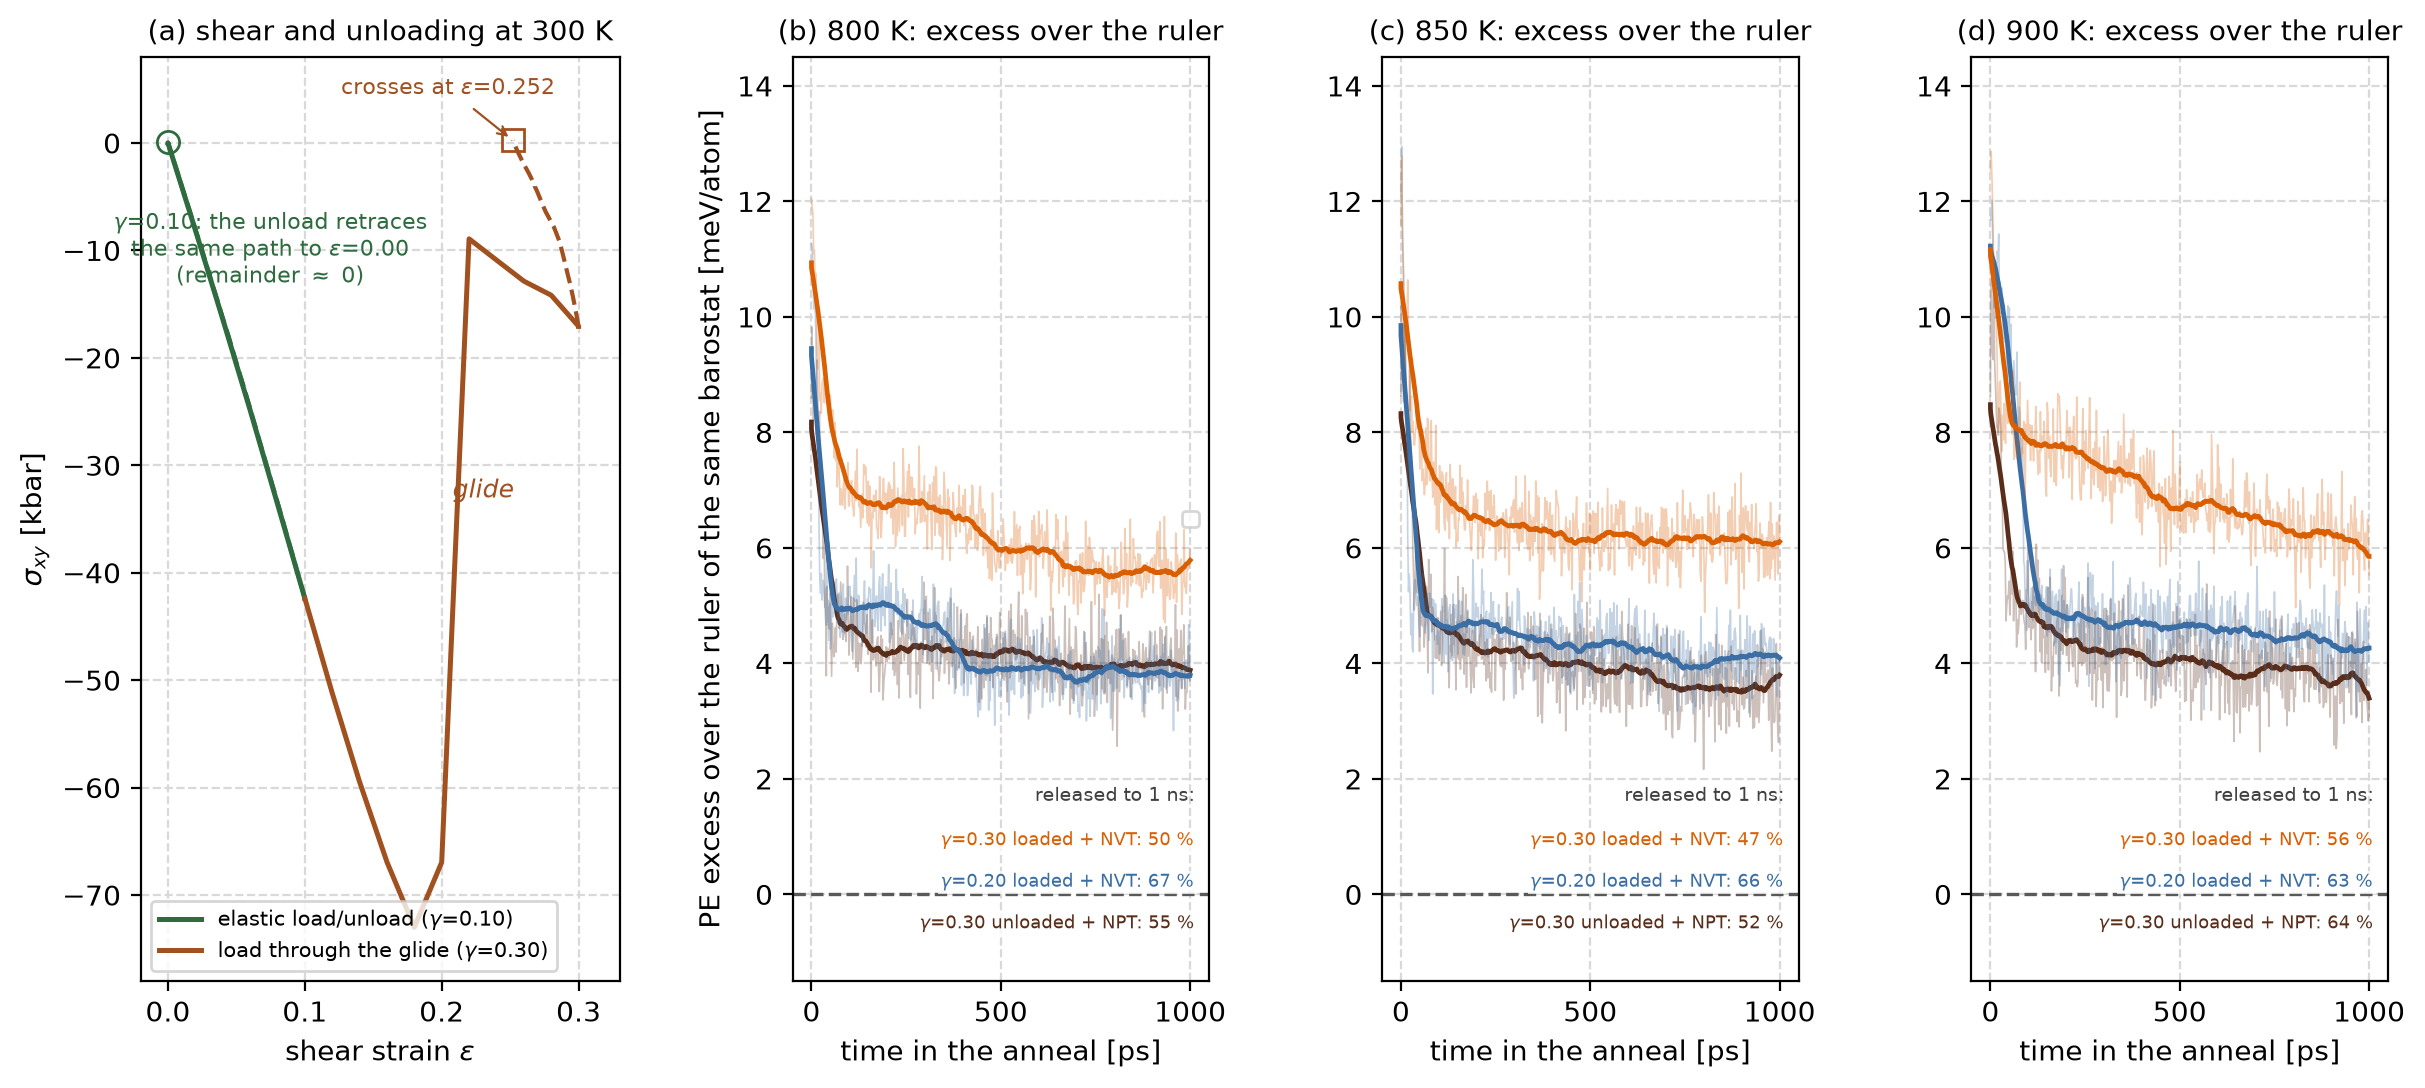
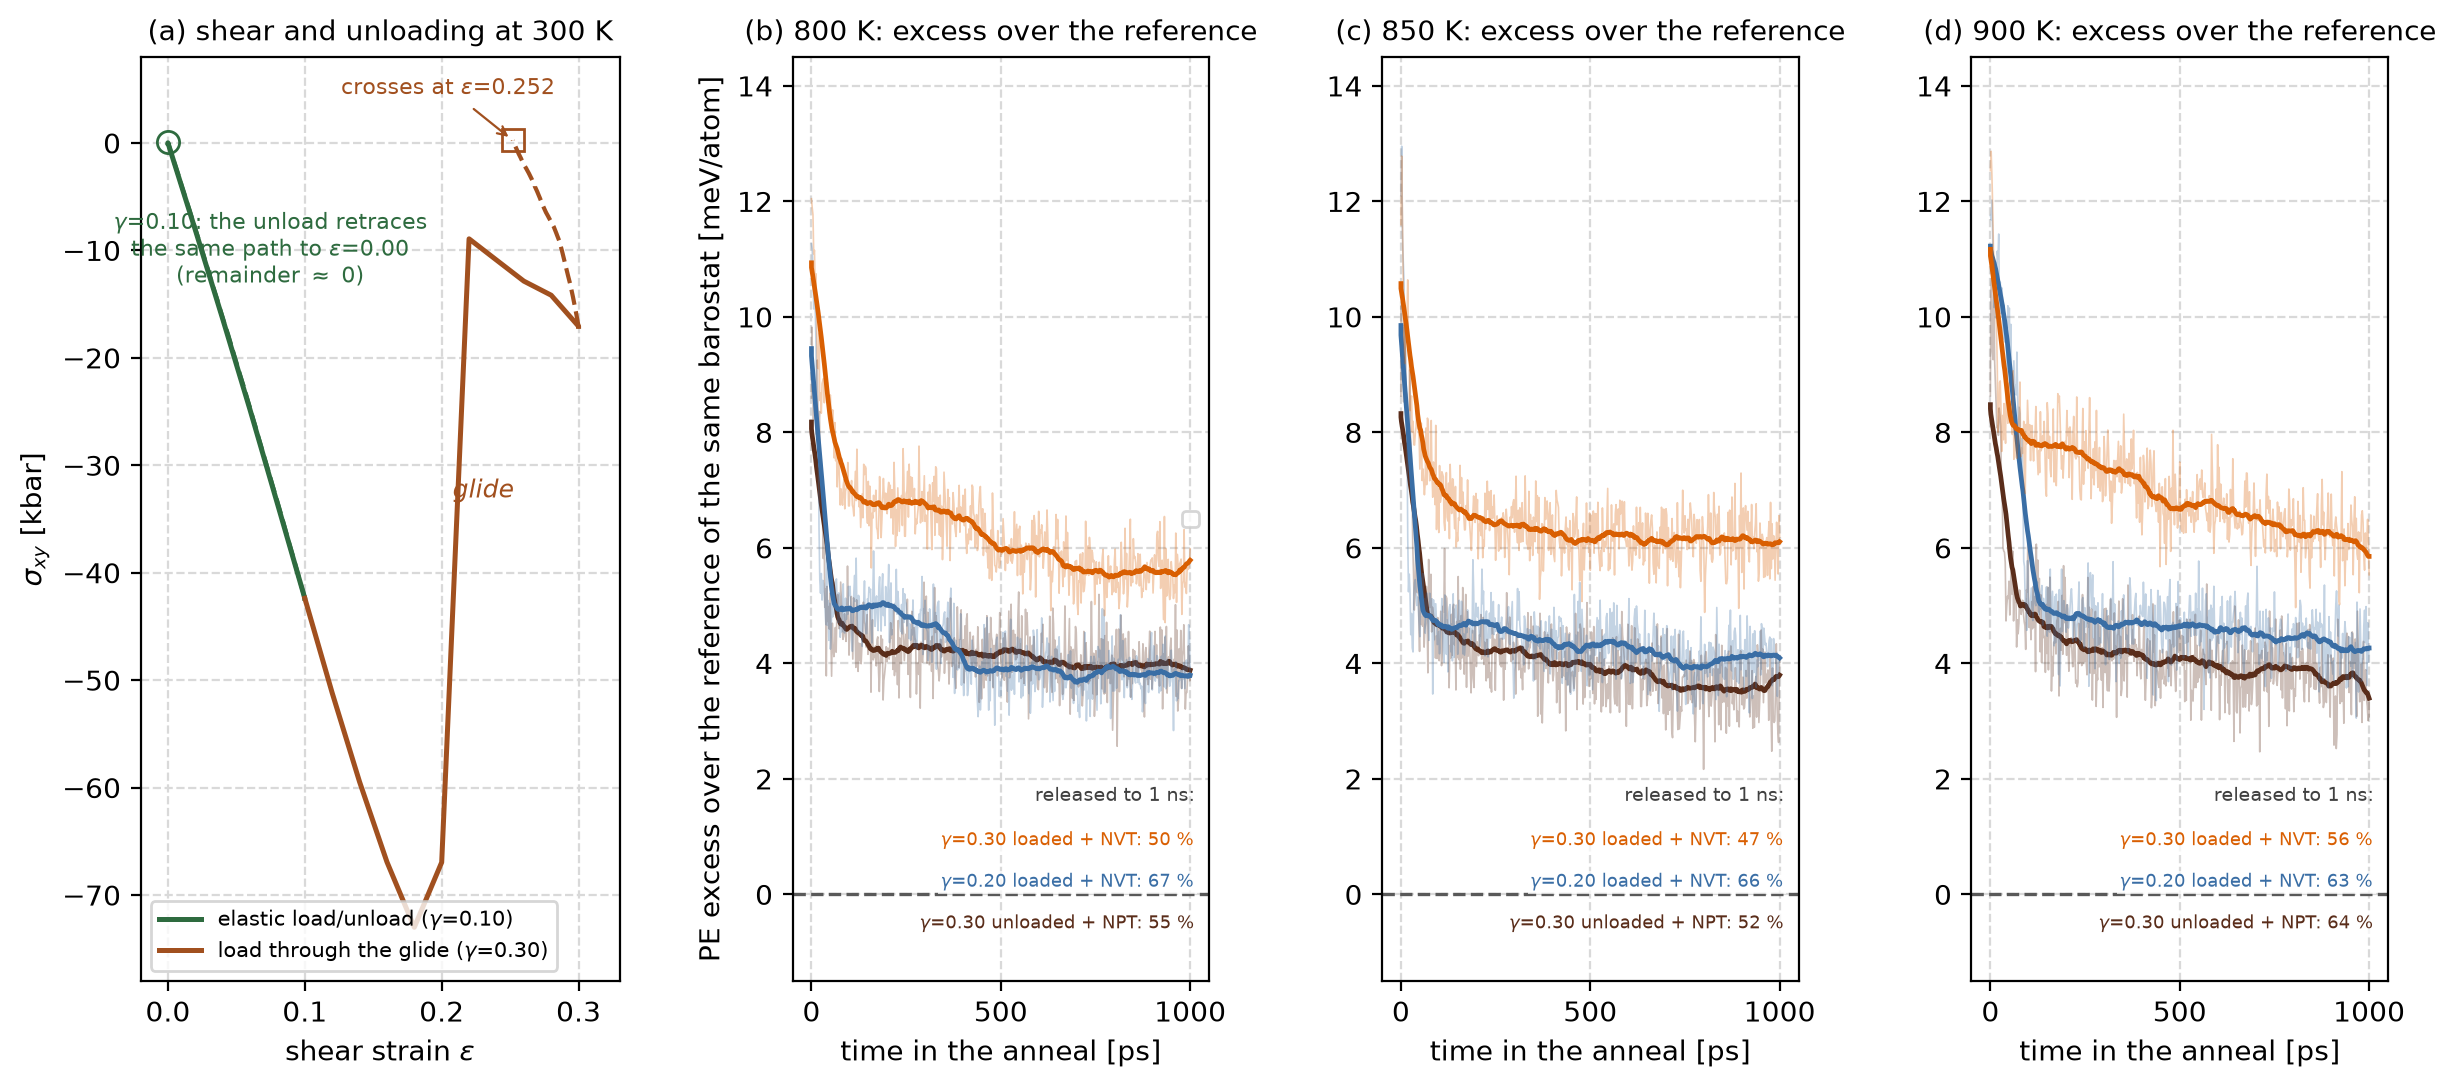
paper: the acronyms defined at first use (FCC, MEAM, EAM, LAMMPS, CNA, NVT, NPT, PE columns); 'ruler' to 'reference'
- 5.7: face-centered cubic (FCC), modified embedded-atom method (MEAM), embedded-atom
  method (EAM) of Mendelev, the LAMMPS code (Large-scale Atomic/Molecular Massively Parallel
  Simulator) spelled out at their first occurrence
- 5.9: the ensemble name NVT spelled (the number of atoms, volume and temperature held), NPT
  spelled at its first occurrence, the CNA linked to its spelled-out name, and the E6.5 code
  anchor: 'E6.5 in the records of the repository cited here' (the codes of the repo now have a
  definition sentence in the paper)
- Table 10's caption now defines the dPE and Est columns; Fig 12's panel titles and captions
  use 'reference' instead of the informal 'ruler'

diff --git a/paper/build_paper.py b/paper/build_paper.py
@@ -729,9 +729,10 @@ P('Here $\\delta$ is the thickness of the deformed zone, which converts the area
   'Closed with this potential, the framework is self-consistent with the rules adopted in Section 3: the elastic '
   'part of the surface energy is restorable on its own (the elastic unloading), and the permanent part only leaves '
   'the interface consumed by the recrystallization, which returns the interface to equilibrium.')
-P('The molecular-dynamics test (LAMMPS) runs FCC periodic cells of 2 048 atoms of Al‑0.8Si‑0.6Mg‑0.2Fe with the '
-  'MEAM interatomic potential of Jelinek et al. [18] (the Cu of the parameterization is not included) and of pure '
-  'Al with the EAM of Mendelev et al. [19] as the control. The cells are sheared at 300 K in strain steps of 10 ps '
+P('The molecular-dynamics test runs face-centered cubic (FCC) periodic cells of 2 048 atoms of Al‑0.8Si‑0.6Mg‑0.2Fe '
+  'with the modified embedded-atom method (MEAM) potential of Jelinek et al. [18] (the Cu of the parameterization is '
+  'not included) and pure Al with the embedded-atom method (EAM) of Mendelev et al. [19] as the control; the runs are '
+  'made with the LAMMPS code (Large-scale Atomic/Molecular Massively Parallel Simulator). The cells are sheared at 300 K in strain steps of 10 ps '
   'at rates of 4–10 × 10⁹ s⁻¹, with a relaxation of 20 ps after each step; the stored energy is the potential '
   'energy per atom of the relaxed state relative to the undeformed reference, and $E_A^p=\\sigma_y^s/\\left|\\sigma_0\\right|=0.144$ '
   'of the model (the yield strain of the Al-Si-Mg-Fe interface) marks Figure 7.')
@@ -928,13 +929,15 @@ def e65_serie():
 H2('5.9. The big-cell design at 800-900 K: the metastable sheared state and the hot-temperature baseline')
 P('The 800-900 K strip of Figures 8 and 10 collected every regime on the 2 048-atom cell: the control of '
   'pure Al releases there, the alloy crosses its violent threshold, and the periodic cell itself ejects atoms '
-  'at the front of the ramp. The E6.5 series transfers the anneal to a design in which the ejection does not '
+  'at the front of the ramp. A big-cell series, E6.5 in the records of the repository cited here, transfers the '
+  'anneal to a design in which the ejection does not '
   'take place: a 62 500-atom cell (25 × 25 × 25 FCC unit cells) of the same EAM control [19], the shear '
   'applied in-line at 300 K ($\\dot{\\gamma}=10^{10}$ s⁻¹, the rate of one step of Figure 7), the temperature '
-  'ramped to the hold in a single blind step and 1 ns of NVT anneal, in steps at 800, 850 and 900 K. No run '
+  'ramped to the hold in a single blind step and 1 ns of anneal with the number of atoms, volume and temperature '
+  'held (NVT), in steps at 800, 850 and 900 K. No run '
   'lost an atom: the ejection catastrophe belongs to the small cell of the unloaded protocol, not to the '
   'deformed state itself.')
-P('At the anneal temperatures the labels of the common-neighbor analysis need their own reference: with the '
+P('At the anneal temperatures the labels of the common-neighbor analysis (CNA) need their own reference: with the '
   'standard in-shell cutoff, 0.854 a₀, the pristine FCC control classifies 17.7 %, 22.8 % and 28.6 % of its '
   'perfectly crystalline atoms outside FCC at 800, 850 and 900 K, against 99.99 % FCC at 300 K in the same '
   'compute - the thermal vibration at 0.85-0.97 T_m misclassifies about a quarter of the atoms of a perfect '
@@ -950,8 +953,9 @@ P('The series is summarized in Figure 11 and Table 10. Against the pristine cont
   'unloading test of Section 5.10 shows this surplus to be the energy of the loaded geometry itself.')
 P('The contrast with Figures 8 and 10 is thereby a statement about the protocol, and the map separates its '
   'factors. The decay of the small cells happened in states unloaded from $\\varepsilon=0.30$ - several times '
-  'the stored content of the $\\gamma=0.10$ state, per the flow map of Figure 7 - and annealed under NPT at '
-  'zero pressure; the E6.5 states are loaded (the $\\sigma_{xy}$ residual stays) and annealed under NVT at '
+  'the stored content of the $\\gamma=0.10$ state, per the flow map of Figure 7 - and annealed under NPT, the '
+  'ensemble in which the number of atoms, the pressure and the temperature are held, here at zero pressure; '
+  'the E6.5 states are loaded (the $\\sigma_{xy}$ residual stays) and annealed under NVT at '
   'the cold-built volume (about 45-53 kbar of confinement at the hold temperature). Which factor controls '
   'the onset - the magnitude of the released potential or the barostat - is what the next experiment reads: '
   'unload to zero stress and anneal at zero pressure, in the same 62 500-atom cell.')
@@ -965,9 +969,11 @@ FIG(os.path.join(HERE, 'Fig11_E65_series.png'),
     'no recrystallization starts within 1 ns at 800-900 K.')
 e65 = e65_serie()
 if e65:
-    TABLE('Table 10. The E6.5 series: the sheared 62 500-atom cells against the pristine FCC control of '
-          'their own temperature (CNA label "5" and potential energy, 1 ns holds; $\\sigma_{xy}$ = the '
-          'residual shear stress of the loaded state, flat within the hold).',
+    TABLE('Table 10. The big-cell series (E6.5): the sheared 62 500-atom cells against the pristine FCC '
+          'control of their own temperature; ΔPE = the potential-energy surplus of the sheared state over '
+          'the control, ΔE_st = the same surplus as a bulk density; the CNA label "5" of the sheared state '
+          'is read as the excess over the control\'s label fraction; σxy = the residual shear stress of the '
+          'loaded state, flat within the hold.',
           ['T [K]', 'Label "5" [%]', 'Baseline [%]', 'Excess [%]', 'ΔPE [eV/atom]',
            'ΔE_st [10⁸ J m⁻³]', 'σxy [kbar]'],
           e65, [1.4, 2.2, 2.2, 2.2, 2.4, 2.4, 2.0])
@@ -1071,16 +1077,16 @@ P('Because the E6.5 series anneals the loaded state, the unloading measurement o
   'protocol gives on the small cell (0.250, Table 8) - with the stored remainder of 0.0119 eV/atom '
   '(1.17 J m⁻²), twice the per-atom remainder of the small cell in the same potential (0.0059 eV/atom): '
   'the continuous in-line shear stores about twice more.')
-P('The anneals of the unloaded states read against the ruler of their own barostat: a P = 0 state is '
+P('The anneals of the unloaded states read against the reference of their own barostat: a P = 0 state is '
   'compared to the pristine control annealed under NPT, the NVT family to the NVT one (Figure 12b-d) '
   '- the NPT control expands to the zero-pressure volume, and the potential energy of a confined and '
   'of a free cell differ by the elastic volume term. None of the 21 runs lost an atom and none jumped; '
   'the release is gradual: the three plastic states (0.30 unloaded, 0.20 and 0.30 loaded) shed 47-67 % '
-  'of their initial excess of 10-13 meV/atom over the ruler inside 100-300 ps and flatten on a common '
+  'of their initial excess of 10-13 meV/atom over the reference inside 100-300 ps and flatten on a common '
   'plateau of +3 to +6 meV/atom that persists to the end of the 1 ns. No recrystallization completes '
   'and no event occurs: the decay catastrophe of the fine frontier (Figure 10) is absent from the big '
   'cell entirely. The unloaded $\\gamma=0.10$ states, annealed under NPT at independent seeds, sit '
-  'within ±1.7 meV/atom of the NPT ruler - the equilibration noise between seeds -, replicating the '
+  'within ±1.7 meV/atom of the NPT reference - the equilibration noise between seeds -, replicating the '
   'control.')
 P('The plateau is the deformation the 1 ns window does not consume, and it closes the scale: as a bulk '
   'density (16.5 Å³ of volume per atom) it gives 3-6 × 10⁷ J m⁻³, the order of the model potential '
@@ -1096,16 +1102,16 @@ FIG(os.path.join(HERE, 'Fig12_E66_unload_release.png'),
     'circle, remainder within noise); the $\\gamma=0.30$ load crosses the glide inside the deformation '
     '(the stress peak of 7.3 GPa at $\\varepsilon\\approx 0.18$ falls to below 1.2 GPa) and the unload '
     'crosses at $\\varepsilon=0.252$ with the plastic remainder of 0.0119 eV/atom. (b-d) The potential-'
-    'energy excess over the ruler of the same barostat (thin = raw, solid = running mean) for the '
+    'energy excess over the reference of the same barostat (thin = raw, solid = running mean) for the '
     'unloaded 0.30 state under NPT and the loaded 0.20/0.30 states under NVT: 47-67 % of the excess '
     'releases inside 100-300 ps and the states flatten on a common plateau of +3 to +6 meV/atom that '
-    'the 1 ns window does not consume. The unloaded $\\gamma=0.10$ states sit on the NPT ruler '
+    'the 1 ns window does not consume. The unloaded $\\gamma=0.10$ states sit on the NPT reference '
     '(Table 11).')
 e66 = e66_filas()
 if e66:
     TABLE('Table 11. The E6.6 unloading and anneal: the unload crossing and the stored remainder '
-          'per state (left), and the release of the potential-energy excess over the ruler of the '
-          'same barostat (right; the NPT states against the NPT ruler of the same temperature, the '
+          'per state (left), and the release of the potential-energy excess over the reference of the '
+          'same barostat (right; the NPT states against the NPT reference of the same temperature, the '
           'NVT states against the NVT baseline). The unloaded $\\gamma=0.10$ cells return to pristine '
           'and are not a plastic measurement.',
           ['State', 'T [K]', 'Seed', '$\\varepsilon$ of the unload crossing', 'Stored remainder [J m⁻²]',
